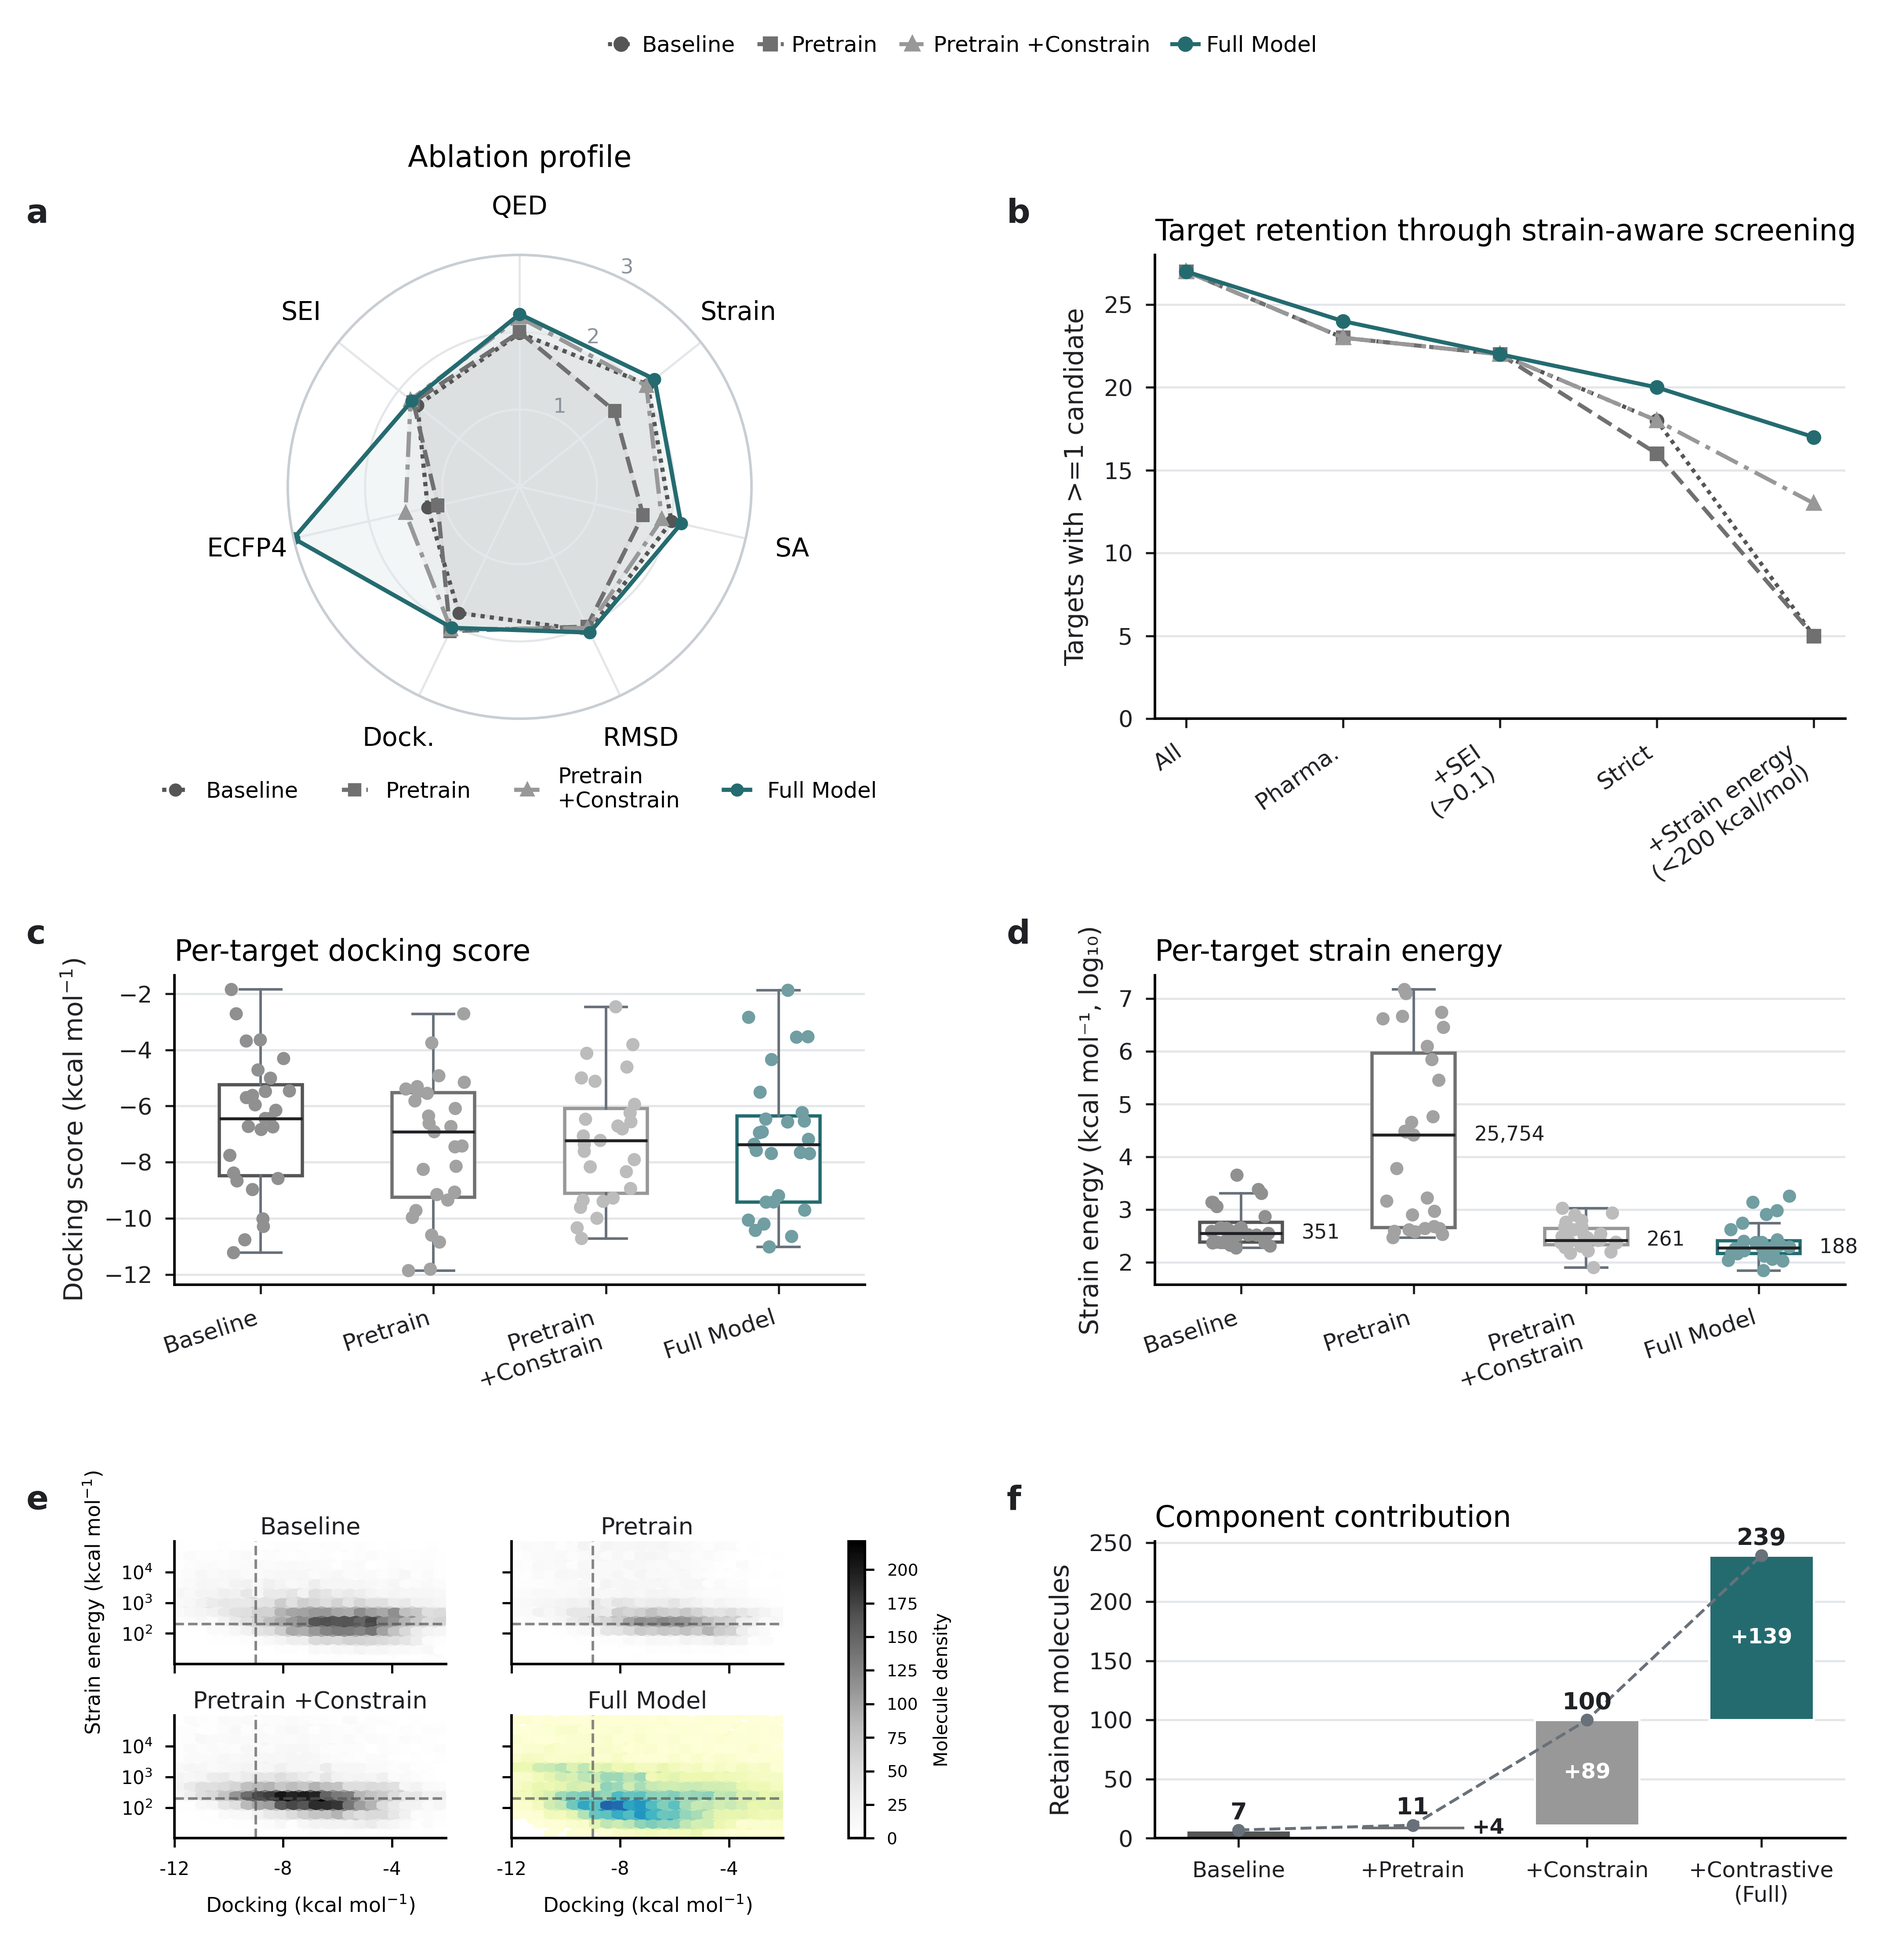
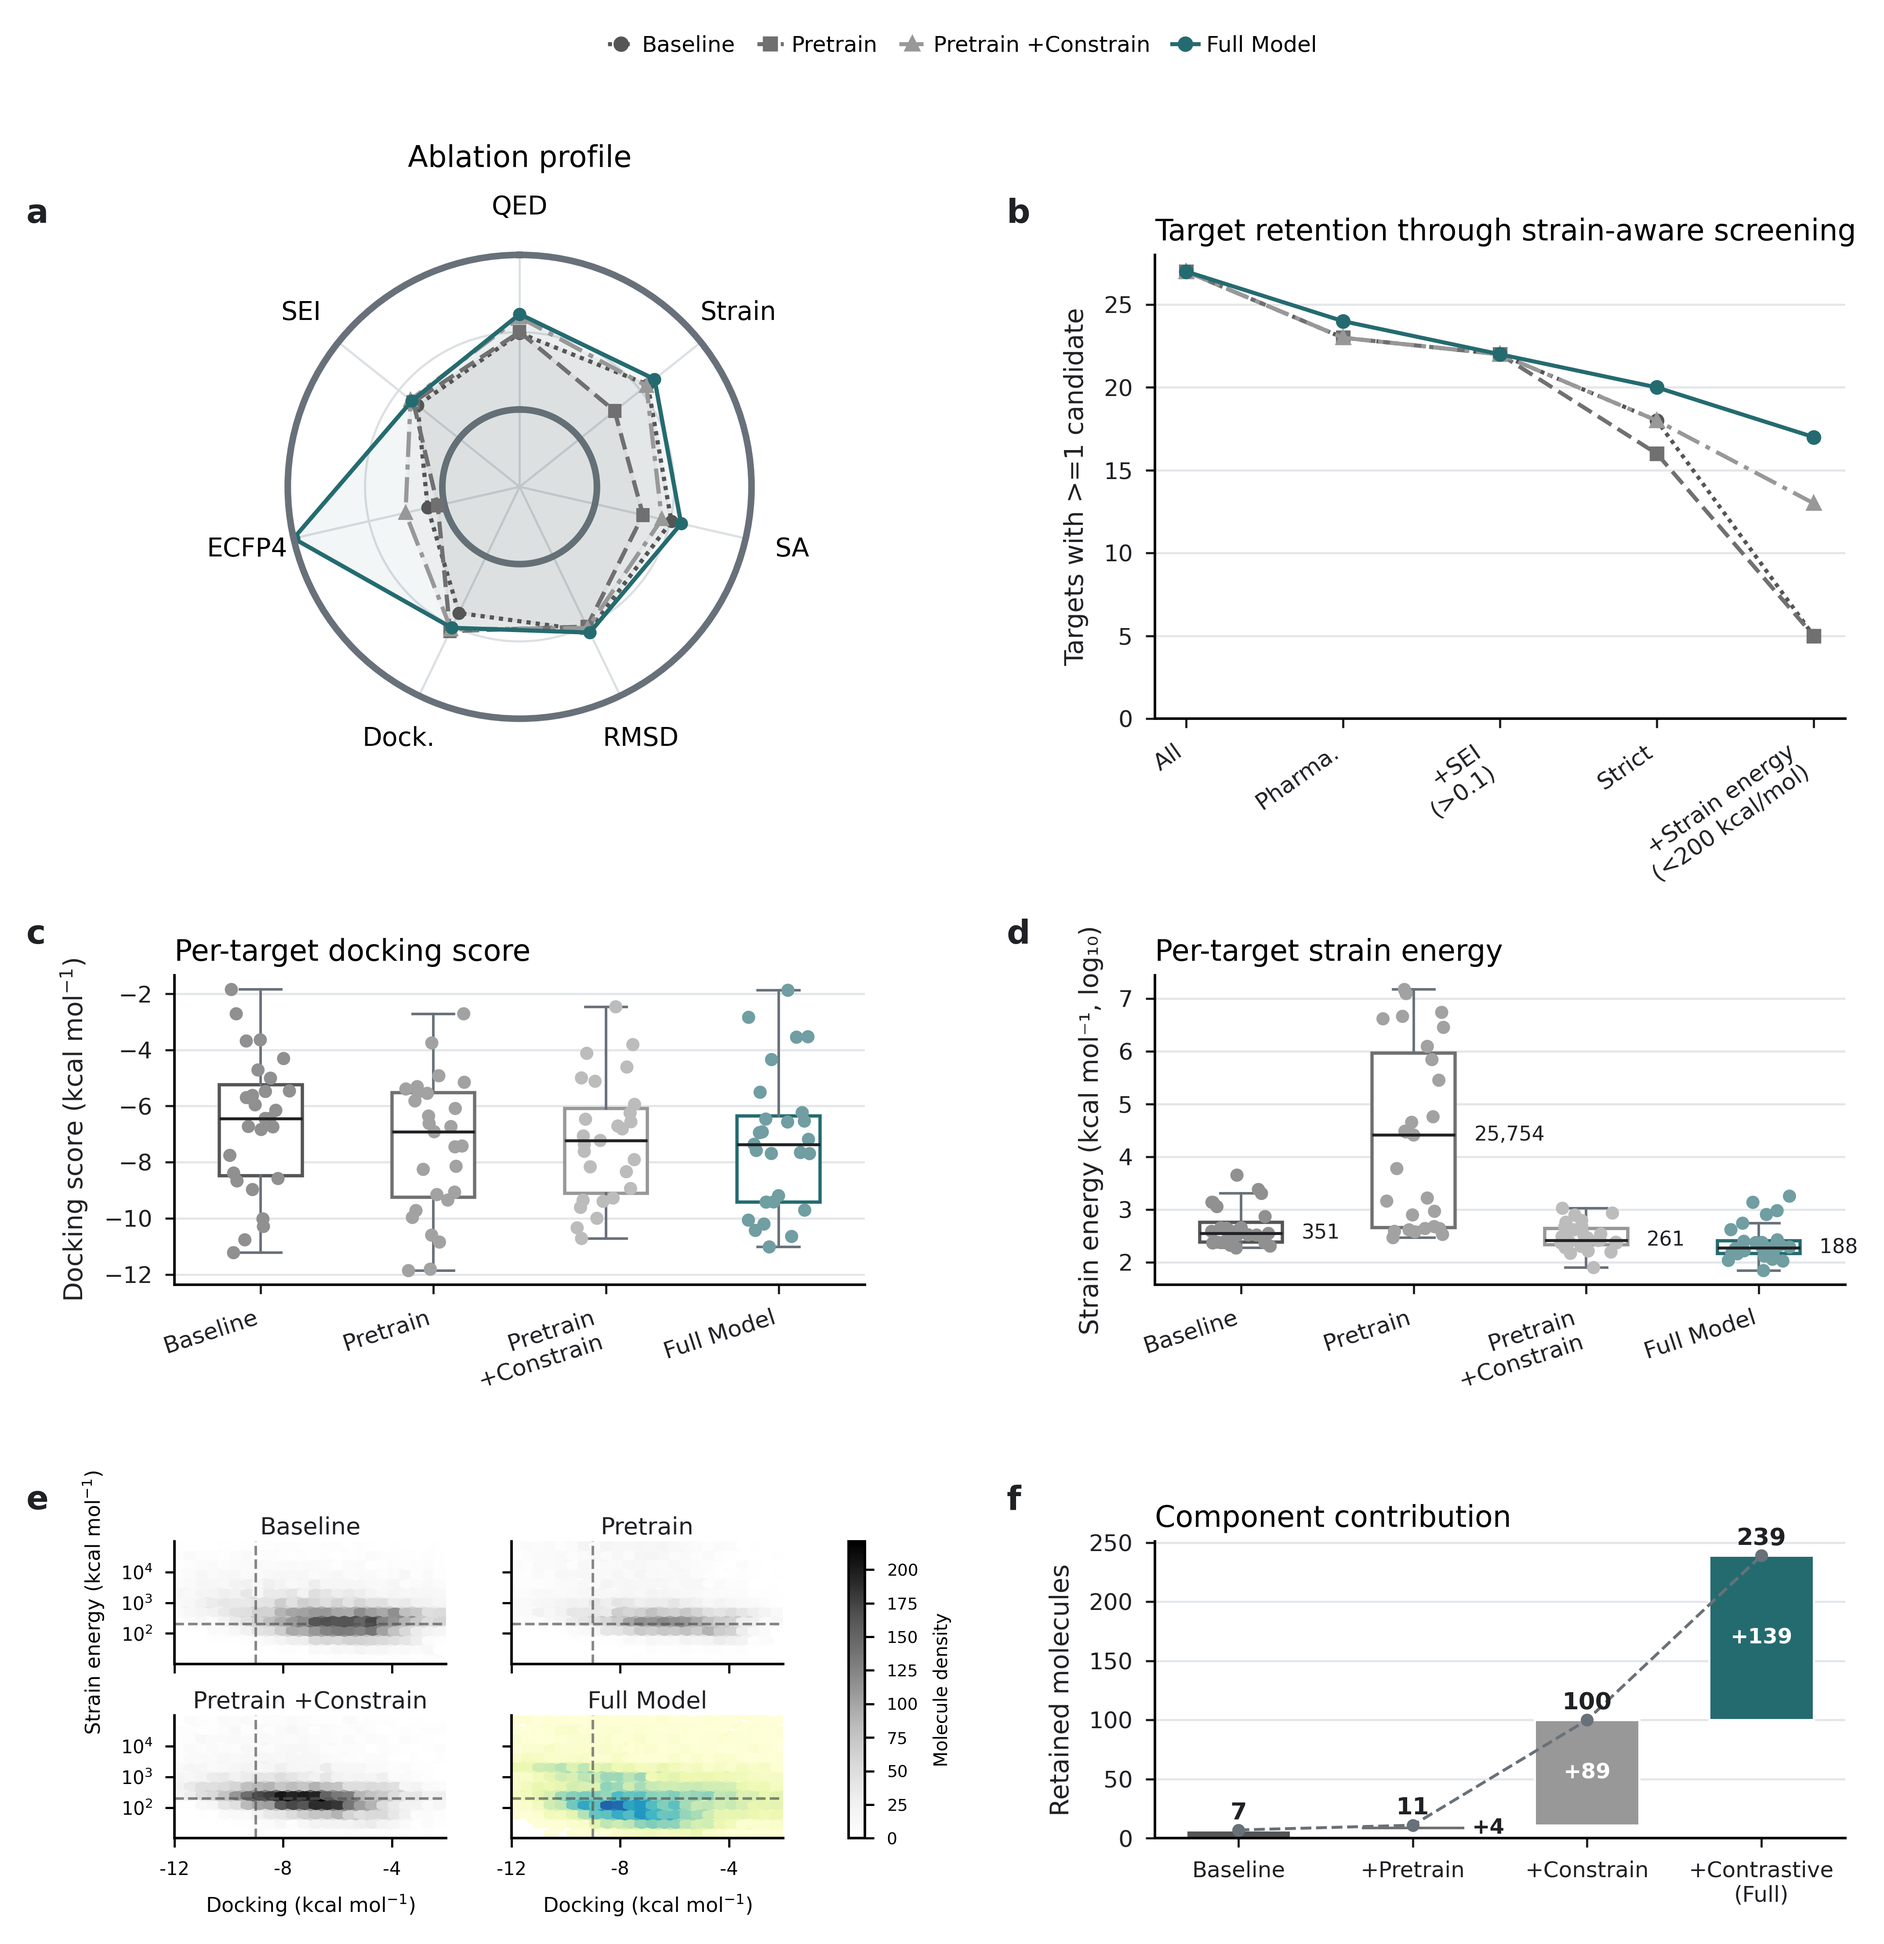
radar: replicate the reference panel's frame and drop the extra legend
The published radar has no per-panel legend and no radial tick numbers; the rings are
told apart by weight. draw_radar was drawing both a legend and a '1/2/3' scale, so panel a
of Fig. 3 showed a second legend underneath the figure-level one and a numeric scale the
reference does not have.

Frame now matches the reference, with the ring colour sampled from it (#68717A heavy,
#DCE0E3 light):
- r=1 and r=3 rings heavy and dark, r=2 light, spokes light;
- no radial tick labels;
- legend=False by default -- each figure carries its own figure-level legend.

The rings are drawn on a dense theta grid so they are circles rather than the 7-gon the
axis vertices produce.

diff --git a/analysis/radar.py b/analysis/radar.py
@@ -251,9 +251,13 @@ def normalise_ecfp4(recovery_observed: dict[str, float],
 
 
 # ── drawing ─────────────────────────────────────────────────────────────────
+RING_DARK = '#68717A'    # heavy rings at r=1 and r=3
+RING_LIGHT = '#DCE0E3'   # spokes and the r=2 ring
+
+
 def draw_radar(ax, scores_by_method: dict[str, dict], title: str = '',
                colors: dict | None = None, labels: dict | None = None,
-               legend: bool = True, fontsize: float = 7.0,
+               legend: bool = False, fontsize: float = 7.0,
                title_pad: float = 24.0, markers: dict | None = None,
                linestyles: dict | None = None):
     """Draw the manuscript's seven-axis radar on ``ax`` (a polar axes).
@@ -265,22 +269,33 @@ def draw_radar(ax, scores_by_method: dict[str, dict], title: str = '',
     import numpy as np
 
     theta = np.linspace(0.0, 2 * np.pi, len(AXIS_ORDER), endpoint=False)
+    closed_theta = np.append(theta, theta[0])
     ax.set_theta_offset(np.pi / 2)
     ax.set_theta_direction(-1)
     ax.set_xticks(theta)
     ax.set_xticklabels([SEVEN_LABELS[a] for a in AXIS_ORDER], fontsize=fontsize)
     ax.set_ylim(0.0, 3.0)
+    # The reference panels carry no radial tick numbers: the rings are told apart by
+    # weight, with the inner (r=1) and outer (r=3) rings heavy and the r=2 ring light.
     ax.set_yticks([1, 2, 3])
-    ax.set_yticklabels(['1', '2', '3'], fontsize=fontsize * 0.8, color='#8a9299')
-    ax.set_rlabel_position(180.0 / len(AXIS_ORDER))
-    ax.grid(color='#E4E7EA', linewidth=0.6)
-    ax.spines['polar'].set_color('#c8ced3')
+    ax.set_yticklabels([])
+    ax.grid(False)
+    for th in theta:
+        ax.plot([th, th], [0.0, 3.0], color=RING_LIGHT, linewidth=0.6, zorder=0)
+    # the rings are circles, not the 7-gon the axis vertices would produce
+    ring_theta = np.linspace(0.0, 2 * np.pi, 361)
+    ax.plot(ring_theta, np.full(ring_theta.shape, 2.0),
+            color=RING_LIGHT, linewidth=0.6, zorder=0)
+    ax.plot(ring_theta, np.full(ring_theta.shape, 1.0),
+            color=RING_DARK, linewidth=1.8, zorder=1)
+    ax.spines['polar'].set_color(RING_DARK)
+    ax.spines['polar'].set_linewidth(1.8)
 
     colors = colors or {}
     labels = labels or {}
     markers = markers or {}
     linestyles = linestyles or {}
-    closed = np.append(theta, theta[0])
+    closed = closed_theta
     for method, sc in scores_by_method.items():
         s = np.array([sc.get(a, 0.0) for a in AXIS_ORDER], dtype=float)
         r = np.asarray(radial(np.nan_to_num(s, nan=0.0)))
